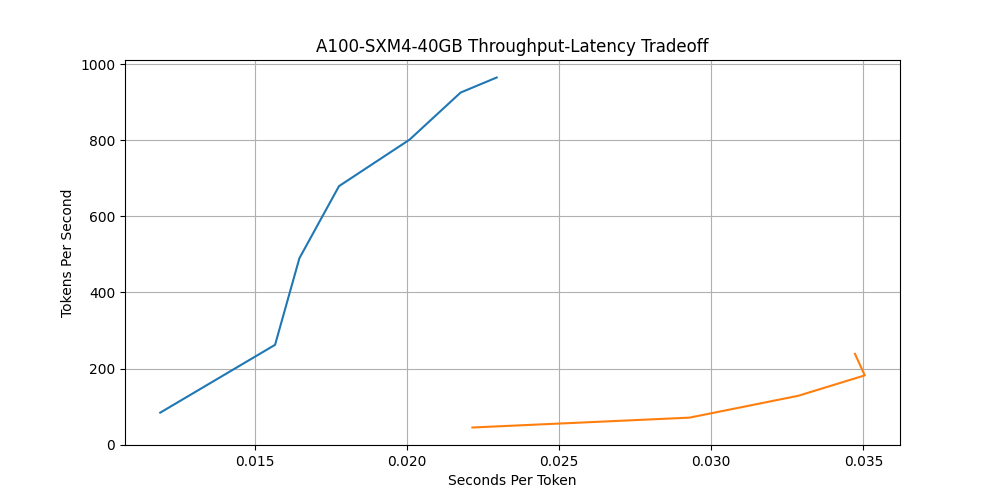
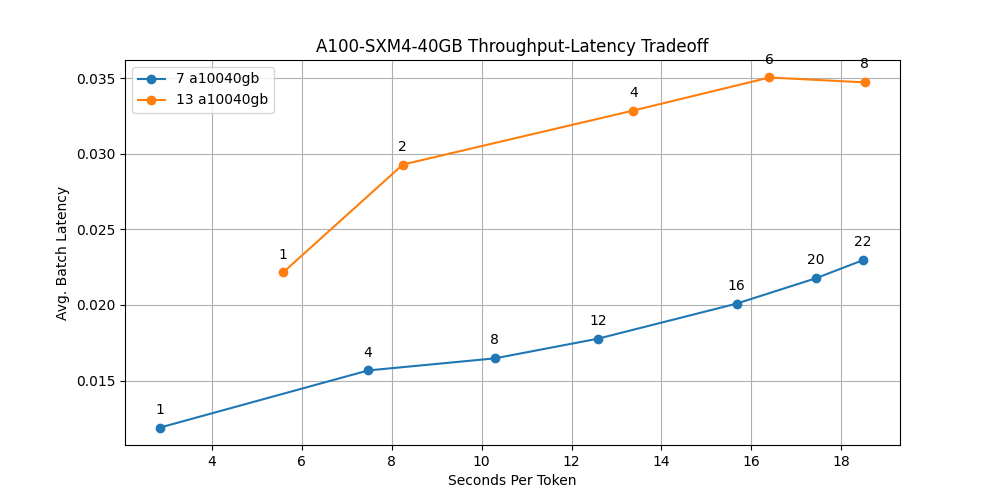
througput v latency tradeoff plotting

diff --git a/nvidia-gpu/tensorrt-llm/plotting/gpu_batch_exp_plotting.py b/nvidia-gpu/tensorrt-llm/plotting/gpu_batch_exp_plotting.py
@@ -19,7 +19,7 @@ def plot_throughput_vs_latency(
     for bmark_param_group in bmark_param_groups:
         group_split = bmark_param_group.split()
         bmark_param_group_dict = {}
-        bmark_param_group_dict['model_size'] = int(group_split[0]) if group_split[0] != 'X' else 'X'
+        bmark_param_group_dict['model_size'] = group_split[0] if group_split[0] != 'X' else 'X'
         bmark_param_group_dict['batch_size'] = int(group_split[1]) if group_split[1] != 'X' else 'X'
         bmark_param_group_dict['max_sequence_length'] = int(group_split[2]) if group_split[2] != 'X' else 'X'
         bmark_param_group_dict['gpu_type'] = group_split[3] if group_split[3] != 'X' else 'X'
@@ -28,6 +28,7 @@ def plot_throughput_vs_latency(
         bmark_param_group_dict['batch_sizes'] = []
         bmark_param_group_dict['avg_tpss'] = []
         bmark_param_group_dict['avg_spts'] = []
+        bmark_param_group_dict['avg_batch_e2e_times'] = []
         bmark_param_group_dicts.append(bmark_param_group_dict)
 
     for bmark_entry in bmark_entries:
@@ -47,6 +48,7 @@ def plot_throughput_vs_latency(
         # tps = tokens per second
         batch_tps_sum = 0
         batch_spt_sum = 0
+        batch_e2e_time_sum = 0
         num_iterations = 0
         for batch_iteration, batch_dict in bmark_info.items():
             batch_start_time = batch_dict['batch_start_time']
@@ -69,13 +71,15 @@ def plot_throughput_vs_latency(
             # tps = tokens per second
             batch_tps = total_batch_generated_tokens / batch_e2e_time
             batch_tps_sum += batch_tps
+            batch_e2e_time_sum += batch_e2e_time
             num_iterations += 1
 
         avg_tps = batch_tps_sum / num_iterations
         avg_spt = batch_spt_sum / num_iterations
+        avg_batch_e2e_time = batch_e2e_time_sum / num_iterations
         #bmark_entry['avg_tps'] = avg_tps
         #bmark_entry['avg_spt'] = avg_spt
-        print(f'{model_size} {batch_size} {max_sequence_length} {gpu_type} {avg_tps} {avg_spt}')
+        print(f'{model_size} {batch_size} {max_sequence_length} {gpu_type} {avg_tps} {avg_spt} {avg_batch_e2e_time}')
 
         # group plotting points into the group_dicts
         bmark_param_match_found = False
@@ -99,6 +103,7 @@ def plot_throughput_vs_latency(
             bmark_param_group_dict['batch_sizes'].append(batch_size)
             bmark_param_group_dict['avg_tpss'].append(avg_tps)
             bmark_param_group_dict['avg_spts'].append(avg_spt)
+            bmark_param_group_dict['avg_batch_e2e_times'].append(avg_batch_e2e_time)
             break
 
         # For each bmark_entry, should at least match to one of the plotting groups
@@ -109,14 +114,38 @@ def plot_throughput_vs_latency(
         for key, val in bmark_param_group_dict.items():
             print(f'{key}, {val}')
 
+        avg_tpss = bmark_param_group_dict['avg_tpss']
+        avg_spts = bmark_param_group_dict['avg_spts']
+        avg_batch_e2e_times = bmark_param_group_dict['avg_batch_e2e_times']
+        batch_sizes = bmark_param_group_dict['batch_sizes']
+
         model_size = bmark_param_group_dict['model_size']
         max_sequence_length = bmark_param_group_dict['max_sequence_length']
         gpu_type = bmark_param_group_dict['gpu_type']
-        plt.plot(bmark_param_group_dict['avg_spts'], bmark_param_group_dict['avg_tpss'], label=f'{model_size} {gpu_type}', marker='o')
-    plt.xlabel('Seconds Per Token')
-    plt.ylabel('Tokens Per Second')
+        #plt.plot(bmark_param_group_dict['avg_spts'], bmark_param_group_dict['avg_tpss'], label=f'{model_size} {gpu_type}', marker='o')
+        #plt.plot(avg_spts, avg_batch_e2e_times, label=f'{model_size} {gpu_type}', marker='o')
+
+        #plt.plot(avg_batch_e2e_times, avg_spts, label=f'{model_size} {gpu_type}', marker='o')
+        plt.plot(avg_tpss, avg_spts, label=f'{model_size} {gpu_type}', marker='o')
+
+        #for avg_batch_e2e_time, avg_spt, batch_size in zip(avg_batch_e2e_times, avg_spts, batch_sizes):
+        #    plt.annotate(str(batch_size),
+        #                 (avg_batch_e2e_time, avg_spt),
+        #                 textcoords='offset points',
+        #                 xytext=(0, 10),
+        #                 ha='center')
+        for avg_tps, avg_spt, batch_size in zip(avg_tpss, avg_spts, batch_sizes):
+            plt.annotate(str(batch_size),
+                         (avg_tps, avg_spt),
+                         textcoords='offset points',
+                         xytext=(0, 10),
+                         ha='center')
+
+    plt.xlabel('Tokens Per Second')
+    plt.ylabel('Avg. Request Token Latency')
     plt.title(plot_name)
     plt.grid(True)
+    plt.legend()
     plt.savefig(plot_filename)
 
 
@@ -578,7 +607,7 @@ def main(args):
     for i in range(len(bmark_output_paths)):
         bmark_entry = {}
         curr_bmark_params = bmark_params[i].split()
-        model_size = int(curr_bmark_params[0])
+        model_size = curr_bmark_params[0]
         batch_size = int(curr_bmark_params[1])
         max_sequence_length = int(curr_bmark_params[2])
         gpu_type = curr_bmark_params[3]
